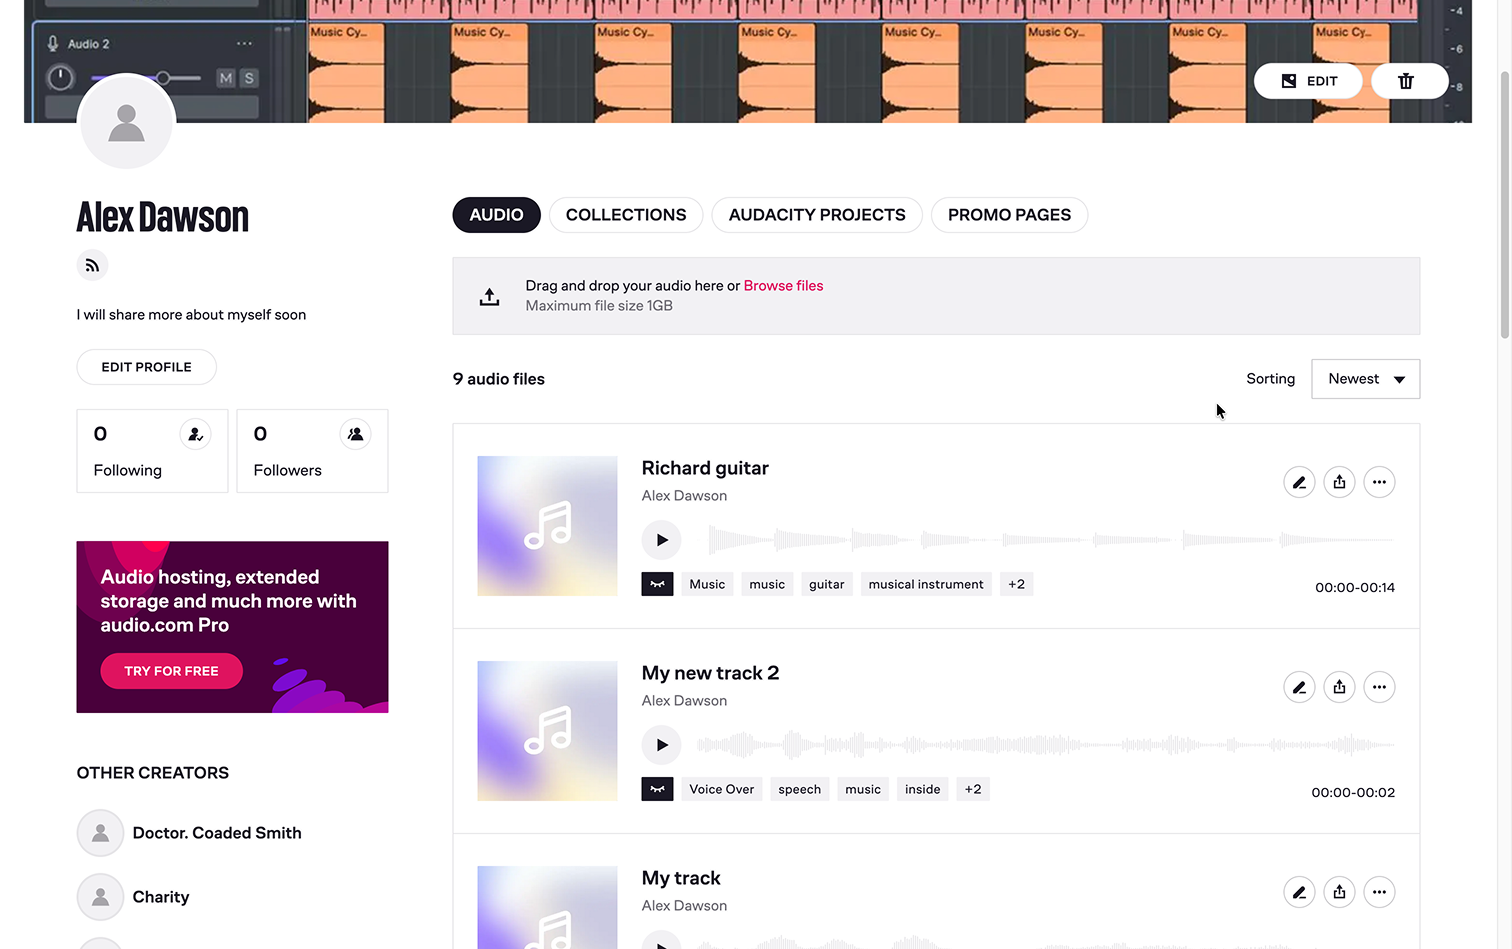
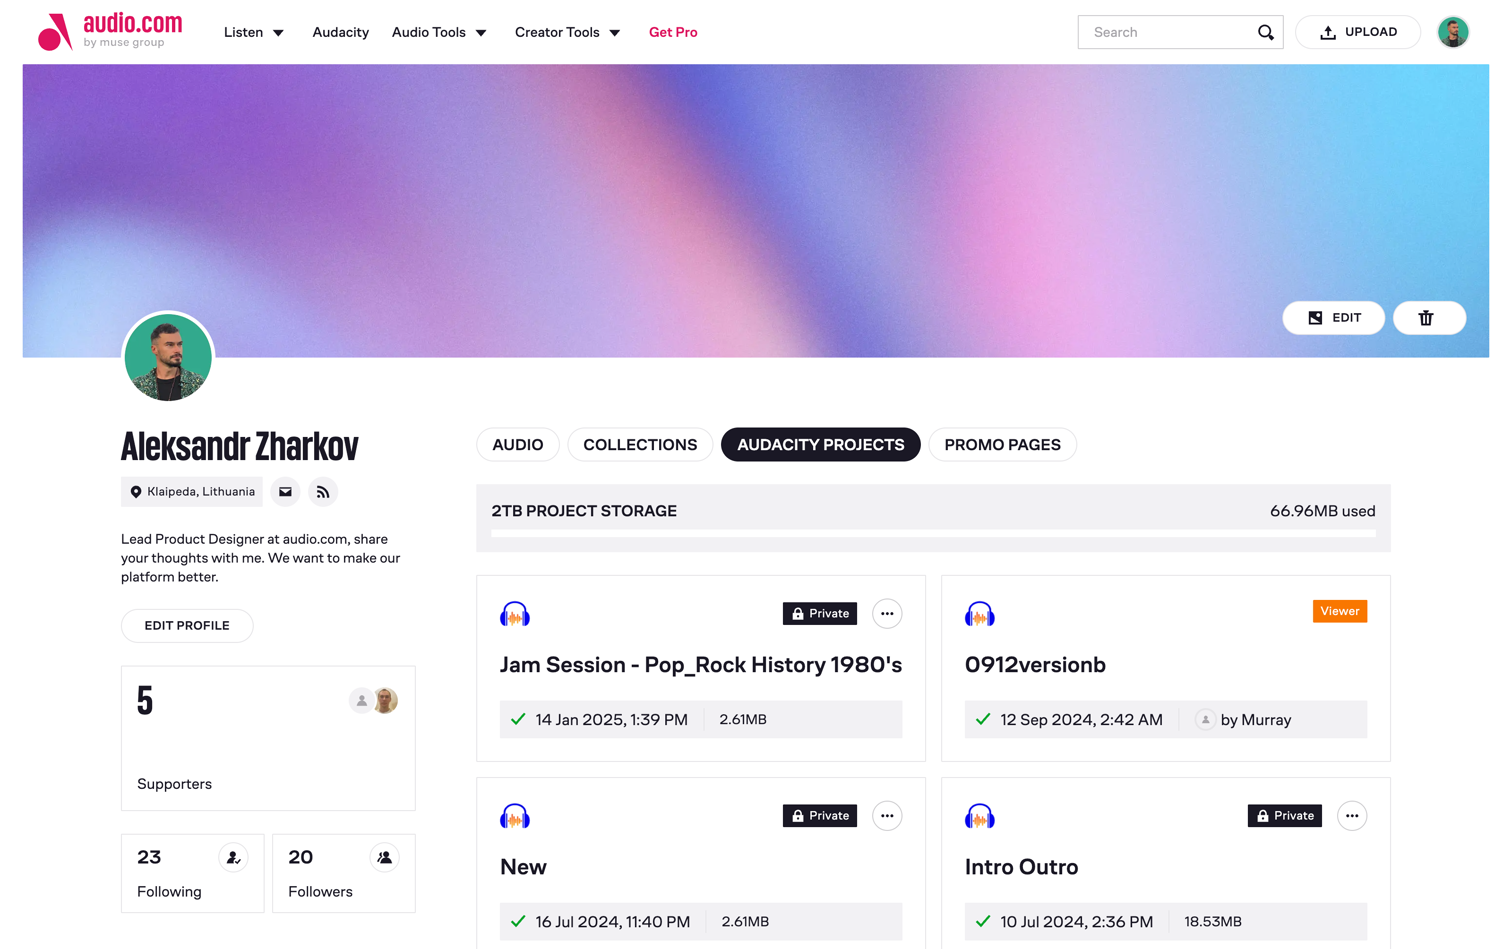
feat(audacity-4): new audio.com panel screenshot, tidier image cards
Replace the 'Publish straight to audio.com' panel image with a fresh
profile capture (viewport-style crop, lossless WebP master). Panel
image cards drop from 16px to 8px corner rounding and the screenshots
are no longer draggable.

diff --git a/src/components/about/AudioCom.jsx b/src/components/about/AudioCom.jsx
@@ -26,12 +26,13 @@ function AudioComPanel({ panel, idx, src }) {
       className="flex flex-col"
       style={entrance.style}
     >
-      <div className="rounded-2xl border border-white/10 bg-white/[0.03] overflow-hidden">
+      <div className="rounded-lg border border-white/10 bg-white/[0.03] overflow-hidden">
         <img
           src={src}
           alt={`${panel.title} — ${panel.eyebrow}`}
           loading="lazy"
           decoding="async"
+          draggable={false}
           className="block w-full h-auto"
         />
       </div>

diff --git a/src/components/about/MuseHub.jsx b/src/components/about/MuseHub.jsx
@@ -26,12 +26,13 @@ function MuseHubPanel({ panel, idx, src }) {
       className="flex flex-col"
       style={entrance.style}
     >
-      <div className="rounded-2xl border border-white/10 bg-white/[0.03] overflow-hidden">
+      <div className="rounded-lg border border-white/10 bg-white/[0.03] overflow-hidden">
         <img
           src={src}
           alt={`${panel.title} — ${panel.eyebrow}`}
           loading="lazy"
           decoding="async"
+          draggable={false}
           className="block w-full h-auto"
         />
       </div>
